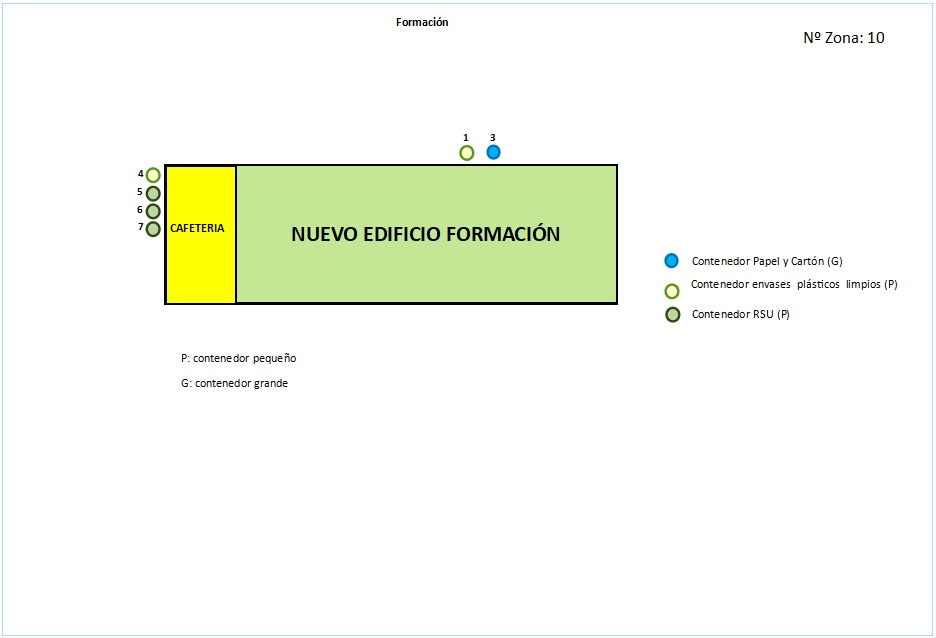
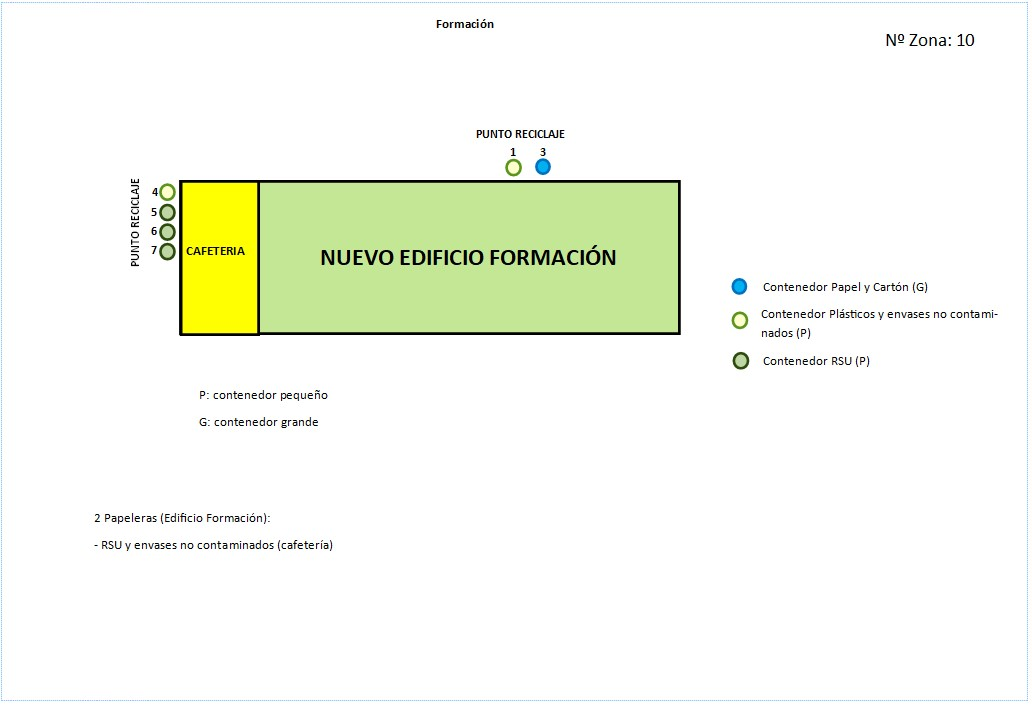
modificaciones para oficina

diff --git a/src/app/data/data.zonas.ts b/src/app/data/data.zonas.ts
@@ -3,67 +3,67 @@ export const ZONAS = [
     {
         nombre: 'Zona 1',
         area: 'Almacén Concentrado / Planta de Muestras / Planta Trituración',
-        imagen: '../assets/imgs/zona1.jpg',
+        imagen: 'https://api.ac-actua.es/zonas/zona1.jpg',
         siglas: 'AC-PM-PT'
     },
     {
         nombre: 'Zona 2',
         area: 'Parcela Silicato',
-        imagen: 'assets/imgs/zona2.jpg',
+        imagen: 'https://api.ac-actua.es/zonas/zona2.jpg',
         siglas: 'PS'
     },
     {
         nombre: 'Zona 3',
         area: 'Refinería',
-        imagen: 'assets/imgs/zona3.jpg',
+        imagen: 'https://api.ac-actua.es/zonas/zona3.jpg',
         siglas: 'R'
     },
     {
         nombre: 'Zona 4',
         area: 'C.Térmica, Refractario',
-        imagen: 'assets/imgs/zona4.jpg',
+        imagen: 'https://api.ac-actua.es/zonas/zona4.jpg',
         siglas: 'CTR'
     },
     {
         nombre: 'Zona 5',
         area: 'CAM',
-        imagen: 'assets/imgs/zona5.jpg',
+        imagen: 'https://api.ac-actua.es/zonas/zona5.jpg',
         siglas: 'CAM'
     },
     {
         nombre: 'Zona 6',
         area: 'Vestuario, Comedor y Transporte',
-        imagen: 'assets/imgs/zona6.jpg',
+        imagen: 'https://api.ac-actua.es/zonas/zona6.jpg',
         siglas: 'VCT'
     },
     {
         nombre: 'Zona 7',
         area: 'Hornos y Oficinas EECC',
-        imagen: 'assets/imgs/zona7.jpg',
+        imagen: 'https://api.ac-actua.es/zonas/zona7.jpg',
         siglas: 'HOEECC'
     },
     {
         nombre: 'Zona 8',
         area: 'Fábricas de Ácido I Y II',
-        imagen: 'assets/imgs/zona8.jpg',
+        imagen: 'https://api.ac-actua.es/zonas/zona8.jpg',
         siglas: 'FAIYII'
     },
     {
         nombre: 'Zona 9',
         area: 'Fábricas de Ácido III Y Planta Yesos',
-        imagen: 'assets/imgs/zona9.jpg',
+        imagen: 'https://api.ac-actua.es/zonas/zona9.jpg',
         siglas: 'FAIIIYPY'
     },
     {
         nombre: 'Zona 10',
         area: 'Formación',
-        imagen: 'assets/imgs/zona10.jpg',
+        imagen: 'https://api.ac-actua.es/zonas/zona10.jpg',
         siglas: 'FOR'
     },
     {
         nombre: 'Zona 11',
         area: 'Laboratorio, OOGG, Taller',
-        imagen: 'assets/imgs/zona11.jpg',
+        imagen: 'https://api.ac-actua.es/zonas/zona11.jpg',
         siglas: 'LOOGGT'
     },
 

diff --git a/src/app/data/data.basuras.ts b/src/app/data/data.basuras.ts
@@ -24,6 +24,18 @@ export const BASURAS = [
     siglas: 'CPENC'
   },
   {
+    nombre: 'Contenedor de Envases Plásticos NO Contaminados',
+    imgContenedor: 'contenedor-plastico-envases-no-contaminados.png',
+    seleccionado: false,
+    siglas: 'CEPNC'
+  },
+  {
+    nombre: 'Contenedor de Envases Contaminados',
+    imgContenedor: 'contenedor-plastico-envases-no-contaminados.png',
+    seleccionado: false,
+    siglas: 'CEC'
+  },
+  {
     nombre: 'Contenedor de Plástico/envases Contaminados',
     imgContenedor: 'contenedor-plastico-envases-contaminados.png',
     seleccionado: false,

diff --git a/src/app/pages/zona/zona.page.ts b/src/app/pages/zona/zona.page.ts
@@ -31,6 +31,7 @@ export class ZonaPage implements OnInit {
                 let data = this.router.getCurrentNavigation().extras.queryParams.zona;
                 if ( data !== params ) {
                   this.zona = data;
+                  console.log(this.zona);
                 }
               });
 

diff --git a/src/app/pages/home/home.page.ts b/src/app/pages/home/home.page.ts
@@ -21,6 +21,7 @@ export class HomePage implements OnInit {
               public usuarioService: UsuarioService
   ) {
     this.zonas = ZONAS.slice(0);
+    // console.log(this.zonas);
   }
 
   ngOnInit() {
